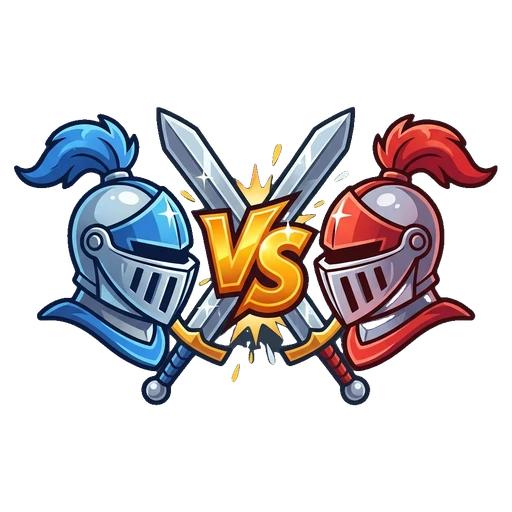
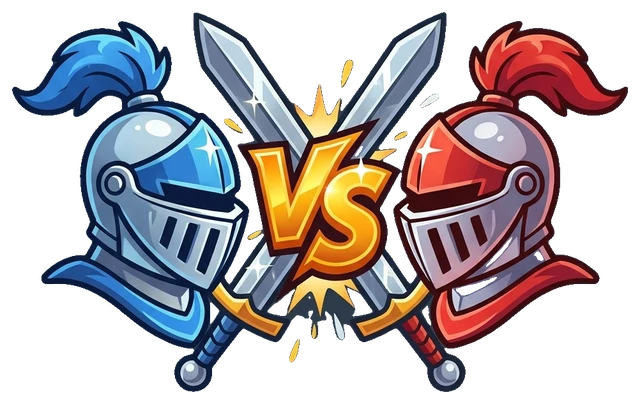
Bendera Indonesia & English baru (webp transparan, bendera-bahasa); Mode: ikon Team & VS Computer dipangkas dan diperbesar

diff --git a/game/mode.html b/game/mode.html
@@ -43,7 +43,7 @@
         <div class="face back"><button class="close">×</button><div class="q ttl">Berapa pemain?</div><div class="opts" data-kind="quick" data-format="solo"></div></div>
       </div>
       <div class="flip" data-id="q-team">
-        <div class="face front"><div class="ic"><img src="assets/komponen/new-icon/teamvsteam.webp" alt=""></div><div class="nm ttl">TEAM</div><div class="sb">2 vs 2</div></div>
+        <div class="face front"><div class="ic xl"><img src="assets/komponen/new-icon/teamvsteam.webp" alt=""></div><div class="nm ttl">TEAM</div><div class="sb">2 vs 2</div></div>
         <div class="face back"><button class="close">×</button><div class="q ttl">Mode Team 2 vs 2</div><div class="opts" data-kind="quick" data-format="team" data-counts="4"></div></div>
       </div>
     </div>
@@ -54,7 +54,7 @@
     <div class="hd ttl">CREATE ROOM</div><div class="desc">Atur permainanmu sendiri</div>
     <div class="tiles">
       <div class="flip" data-id="c-vsc">
-        <div class="face front"><div class="ic"><img src="assets/komponen/new-icon/vscomputer.webp" alt=""></div><div class="nm ttl" style="font-size:36px">VS COMPUTER</div><div class="sb">Lawan bot</div></div>
+        <div class="face front"><div class="ic xl"><img src="assets/komponen/new-icon/vscomputer.webp" alt=""></div><div class="nm ttl" style="font-size:36px">VS COMPUTER</div><div class="sb">Lawan bot</div></div>
         <div class="face back"><button class="close">×</button><div class="q ttl">Jumlah peserta</div><div class="opts" data-kind="room" data-mode="vsc" data-format="solo"></div></div>
       </div>
       <div class="flip" data-id="c-local">

diff --git a/game/css/mode.css b/game/css/mode.css
@@ -81,6 +81,8 @@ button{font:inherit;color:inherit;border:0;background:none;padding:0;cursor:poin
 .front:active{filter:brightness(1.1)}
 .front .ic{height:176px;display:grid;place-items:center}
 .front .ic img{height:176px;width:auto;max-width:100%;object-fit:contain;filter:drop-shadow(0 5px 4px rgba(0,0,0,.45))}
+.front .ic.xl{height:230px;width:100%}
+.front .ic.xl img{height:auto;width:auto;max-height:230px;max-width:92%}
 .front .nm{font-size:44px;line-height:1}
 .front .sb{font-weight:800;font-size:20px;opacity:.85}
 .back .q{font-size:30px;line-height:1.05;text-align:center;padding:0 40px}

diff --git a/game/js/settings.js b/game/js/settings.js
@@ -32,7 +32,7 @@ $('#cf-ok').onclick=()=>{closeCf();try{localStorage.removeItem('dragonroll:auth'
 const BF='assets/komponen/bendera-bahasa/';
 const LANGS=[
   {id:'en',name:'English',flag:BF+'bendera-inggris.webp'},
-  {id:'id',name:'Indonesia',flag:null},
+  {id:'id',name:'Indonesia',flag:BF+'bendera-indonesia.webp'},
   {id:'de',name:'Deutsch',flag:BF+'bendera-jerman.webp'},
   {id:'fr',name:'Français',flag:BF+'bendera-prancis.webp'},
   {id:'es',name:'Español',flag:BF+'bendera-spanyol.webp'},
